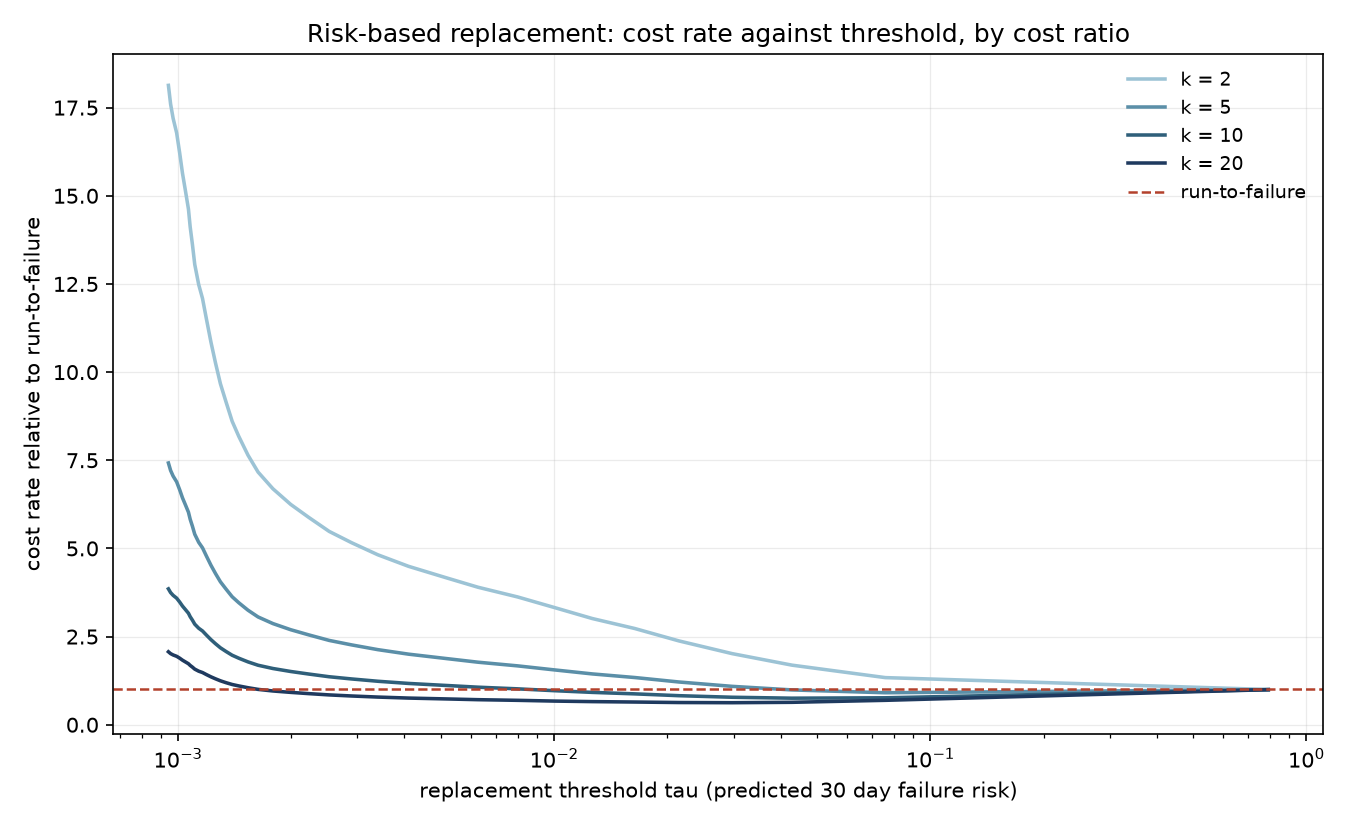
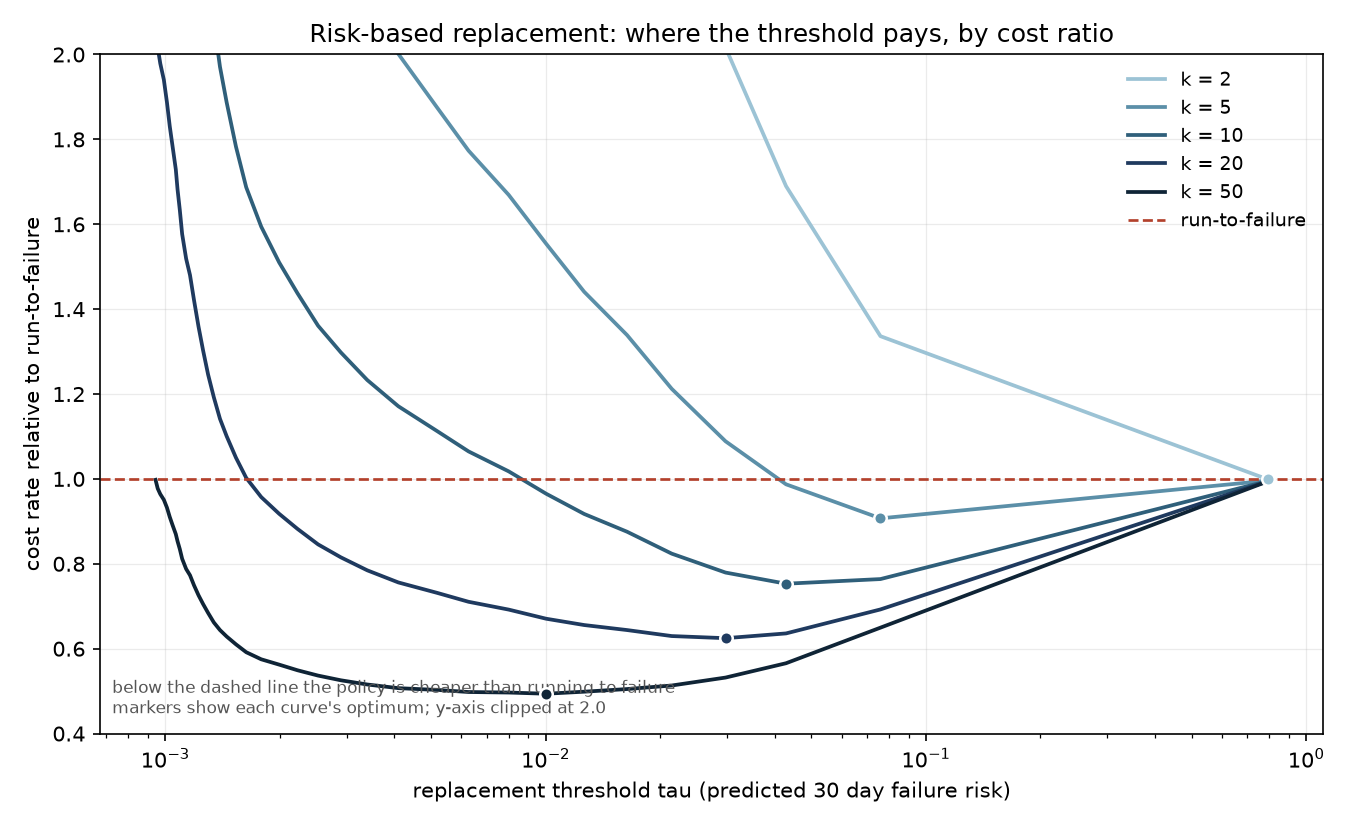
Decision layer figures: zoom to the decision region, split panels, add value-vs-cost-ratio headline

diff --git a/scripts/s9_decision_layer.py b/scripts/s9_decision_layer.py
@@ -258,42 +258,90 @@ def main() -> int:
         print(sens_df.to_string(index=False))
 
     # ------------------------------------------------------------------ figures
-    fig, ax = plt.subplots(figsize=(9, 5.5))
+    # The y-axis is deliberately clipped. Aggressive thresholds drive the cost
+    # rate to 30x run-to-failure, which on a full scale squashes the entire region
+    # where the decision is actually made into a flat line at the bottom.
     rb = sweep[sweep["policy"] == "risk-based"].sort_values("parameter")
     ab = sweep[sweep["policy"] == "age-based"].sort_values("parameter")
-    for k, c in zip((2, 5, 10, 20), ("#9CC3D5", "#5B8FA8", "#2F5F7A", "#1F3A5F")):
+
+    def rel(frame, k):
         rtf = sweep.loc[sweep["policy"] == "run-to-failure", f"cost_rate_k{k}"].iloc[0]
-        ax.plot(rb["parameter"], rb[f"cost_rate_k{k}"] / rtf, lw=1.7,
-                color=c, label=f"k = {k}")
-    ax.axhline(1.0, color="#B3412C", lw=1.2, ls="--", label="run-to-failure")
+        return frame[f"cost_rate_k{k}"] / rtf
+
+    shades = {2: "#9CC3D5", 5: "#5B8FA8", 10: "#2F5F7A", 20: "#1F3A5F", 50: "#0F2436"}
+
+    # 1. threshold sweep, zoomed to the decision region
+    fig, ax = plt.subplots(figsize=(9, 5.5))
+    for k in (2, 5, 10, 20, 50):
+        y = rel(rb, k)
+        ax.plot(rb["parameter"], y, lw=1.8, color=shades[k], label=f"k = {k}")
+        i = y.idxmin()
+        ax.plot(rb.loc[i, "parameter"], y.loc[i], "o", ms=6, color=shades[k],
+                markeredgecolor="white", markeredgewidth=1.2, zorder=5)
+    ax.axhline(1.0, color="#B3412C", lw=1.3, ls="--", label="run-to-failure")
     ax.set_xscale("log")
+    ax.set_ylim(0.4, 2.0)
     ax.set_xlabel("replacement threshold tau (predicted 30 day failure risk)")
     ax.set_ylabel("cost rate relative to run-to-failure")
-    ax.set_title("Risk-based replacement: cost rate against threshold, by cost ratio")
+    ax.set_title("Risk-based replacement: where the threshold pays, by cost ratio")
     ax.grid(alpha=0.25, lw=0.6)
-    ax.legend(fontsize=9, frameon=False)
+    ax.legend(fontsize=9, frameon=False, loc="upper right")
+    ax.text(0.01, 0.03, "below the dashed line the policy is cheaper than running to failure\n"
+            "markers show each curve's optimum; y-axis clipped at 2.0",
+            transform=ax.transAxes, fontsize=8, color="#555555")
     fig.tight_layout()
     fig.savefig(figures / "s9_cost_rate_vs_threshold.png", dpi=150)
     plt.close(fig)
 
-    fig, ax = plt.subplots(figsize=(9, 5.5))
-    for k, c in zip((5, 10, 20), ("#9CC3D5", "#2F5F7A", "#1F3A5F")):
-        rtf = sweep.loc[sweep["policy"] == "run-to-failure", f"cost_rate_k{k}"].iloc[0]
-        ax.plot(rb["parameter"], rb[f"cost_rate_k{k}"] / rtf, lw=1.8, color=c,
-                label=f"risk-based, k = {k}")
-    for k, c in zip((5, 10, 20), ("#E5B9AE", "#C77B69", "#B3412C")):
-        rtf = sweep.loc[sweep["policy"] == "run-to-failure", f"cost_rate_k{k}"].iloc[0]
-        ax.plot(ab["parameter"] / 8760.0, ab[f"cost_rate_k{k}"] / rtf, lw=1.4,
-                ls="--", color=c, label=f"age-based, k = {k}")
-    ax.axhline(1.0, color="grey", lw=1.0, ls=":")
-    ax.set_xscale("log")
-    ax.set_xlabel("policy parameter: tau (risk) or age in years (age-based)")
-    ax.set_ylabel("cost rate relative to run-to-failure")
-    ax.set_title("Risk-based against age-based replacement")
-    ax.grid(alpha=0.25, lw=0.6)
-    ax.legend(fontsize=8, frameon=False, ncol=2)
+    # 2. two panels, because tau and age are not comparable quantities and do not
+    #    belong on a shared axis
+    fig, (a1, a2) = plt.subplots(1, 2, figsize=(12, 5.2), sharey=True)
+    for k in (5, 10, 20):
+        a1.plot(rb["parameter"], rel(rb, k), lw=1.9, color=shades[k], label=f"k = {k}")
+        a2.plot(ab["parameter"] / 8760.0, rel(ab, k), lw=1.9, color=shades[k],
+                label=f"k = {k}")
+    for a, title, xl in ((a1, "Risk-based: replace when predicted risk > tau",
+                          "tau (predicted 30 day failure risk)"),
+                         (a2, "Age-based: replace when age > threshold",
+                          "age threshold (years of power on time)")):
+        a.axhline(1.0, color="#B3412C", lw=1.3, ls="--")
+        a.set_xlabel(xl)
+        a.set_title(title, fontsize=11)
+        a.grid(alpha=0.25, lw=0.6)
+    a1.set_xscale("log")          # risk spans orders of magnitude
+    a2.set_xscale("linear")       # age does not, and log ticks read as 6 x 10^0
+    a1.set_ylim(0.4, 2.5)
+    a1.set_ylabel("cost rate relative to run-to-failure")
+    a1.legend(fontsize=9, frameon=False, loc="upper right")
+    a2.text(0.97, 0.06, "never falls below the line at any cost ratio",
+            transform=a2.transAxes, fontsize=9.5, color="#B3412C", ha="right")
+    fig.suptitle("Age alone is not a usable replacement signal; predicted risk is",
+                 fontsize=12.5)
     fig.tight_layout()
     fig.savefig(figures / "s9_risk_vs_age_policy.png", dpi=150)
+    plt.close(fig)
+
+    # 3. the actual headline: best achievable cost rate against the cost ratio
+    fig, ax = plt.subplots(figsize=(8.5, 5.4))
+    for pol, colour, style in (("risk-based", "#1F3A5F", "-"),
+                               ("age-based", "#B3412C", "--")):
+        ys = [best[(best["k"] == k) & (best["policy"] == pol)]["vs_run_to_failure_pct"].iloc[0]
+              for k in K_GRID]
+        ax.plot(K_GRID, ys, style, marker="o", ms=6, lw=2, color=colour,
+                label=f"{pol} (best threshold)")
+    ax.axhline(0.0, color="grey", lw=1.3, ls=":", label="run-to-failure")
+    ax.set_xscale("log")
+    ax.set_xticks(K_GRID)
+    ax.set_xticklabels([str(k) for k in K_GRID])
+    ax.set_xlabel("cost ratio k = cost of unplanned failure / cost of planned replacement")
+    ax.set_ylabel("change in fleet cost rate (%)")
+    ax.set_title("What predictive replacement is worth, as a function of the cost ratio")
+    ax.grid(alpha=0.25, lw=0.6)
+    ax.legend(fontsize=9, frameon=False, loc="lower left")
+    ax.text(0.98, 0.95, "negative is cheaper than running to failure",
+            transform=ax.transAxes, fontsize=8.5, color="#555555", ha="right")
+    fig.tight_layout()
+    fig.savefig(figures / "s9_value_vs_cost_ratio.png", dpi=150)
     plt.close(fig)
 
     # ------------------------------------------------------------------ headline
